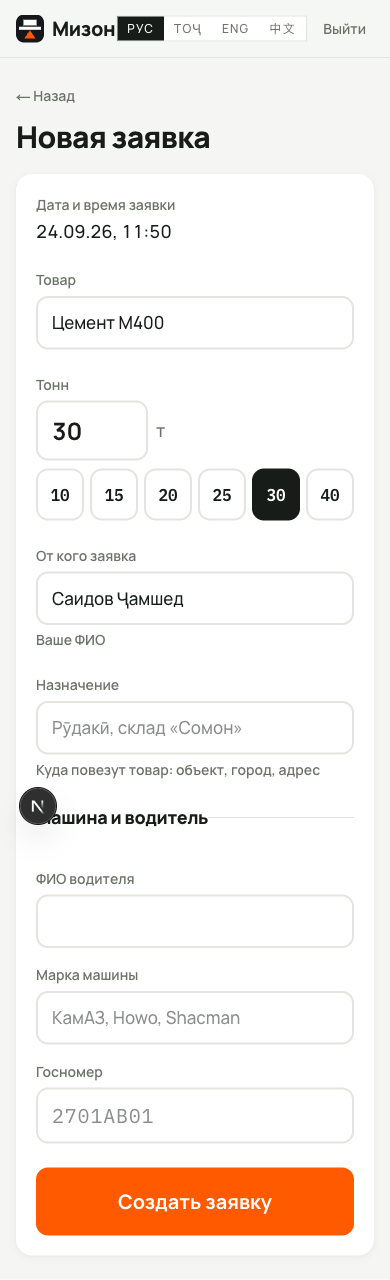
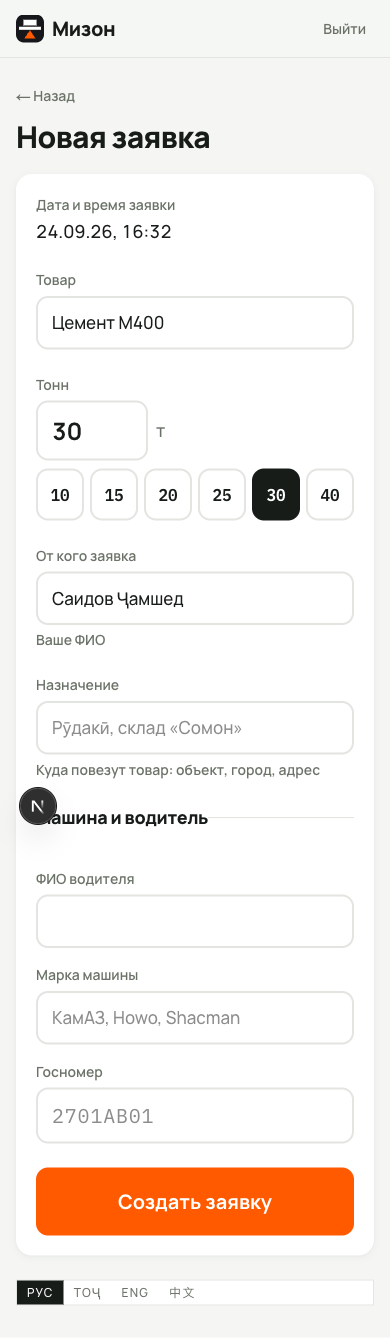
strip dealer header to name and sign out

diff --git a/app/(app)/layout.tsx b/app/(app)/layout.tsx
@@ -21,17 +21,22 @@ export default async function AppLayout({ children }: { children: React.ReactNod
     { href: "/dealers", label: t("nav.dealers"), roles: ["dispatcher", "admin"] },
   ].filter((l) => l.roles.includes(user.role));
 
-  // Дилеру внизу нужна не навигация, а сама кнопка «новая заявка» — ради неё он и заходит.
-
+  /*
+   * У дилера на экране должны остаться только кнопка и его заявки.
+   * Поэтому шапка сведена к названию и выходу, а переключатель языка убран вниз:
+   * язык выбирают один раз, а место вверху он занимал каждый раз.
+   */
+  const isDealer = user.role === "dealer";
 
   return (
-    <div className="min-h-dvh">
+    <div className="flex min-h-dvh flex-col">
       <header className="no-print sticky top-0 z-10 border-b border-line bg-bg/95 backdrop-blur">
         <div className="mx-auto flex max-w-6xl items-center gap-x-5 px-4 py-2.5 sm:px-5 sm:py-3">
           <Link href={links[0]?.href ?? "/orders"} className="flex items-center gap-2">
             <img src="/icon.svg" alt="" width={28} height={28} className="rounded-lg" />
             <span className="title text-xl">{BRAND[locale].name}</span>
           </Link>
+
           {/* На телефоне разделы уезжают в нижнюю панель — до верха экрана рука не дотягивается. */}
           <nav className="hidden gap-4 md:flex">
             {links.map((l) => (
@@ -40,12 +45,16 @@ export default async function AppLayout({ children }: { children: React.ReactNod
               </Link>
             ))}
           </nav>
-          <span className="label ml-auto hidden truncate lg:inline">
-            {user.name}
-            {user.dealerName ? ` · ${user.dealerName}` : ""}
-          </span>
+
+          {!isDealer && (
+            <span className="label ml-auto hidden truncate lg:inline">
+              {user.name}
+              {user.dealerName ? ` · ${user.dealerName}` : ""}
+            </span>
+          )}
+
           <div className="ml-auto flex items-center gap-2 lg:ml-3">
-            <LangSwitch current={locale} />
+            {!isDealer && <LangSwitch current={locale} />}
             <form action={logout}>
               <button className="label px-2 py-2 hover:text-ink">{t("logout")}</button>
             </form>
@@ -53,7 +62,13 @@ export default async function AppLayout({ children }: { children: React.ReactNod
         </div>
       </header>
 
-      <main className="has-tabbar mx-auto max-w-6xl px-4 py-6 sm:px-5 sm:py-8">{children}</main>
+      <main className="has-tabbar mx-auto w-full max-w-6xl flex-1 px-4 py-6 sm:px-5 sm:py-8">{children}</main>
+
+      {isDealer && (
+        <footer className="no-print mx-auto w-full max-w-6xl px-4 pb-8 sm:px-5">
+          <LangSwitch current={locale} />
+        </footer>
+      )}
 
       {links.length > 1 && <TabBar tabs={links.map(({ href, label }) => ({ href, label }))} />}
     </div>
